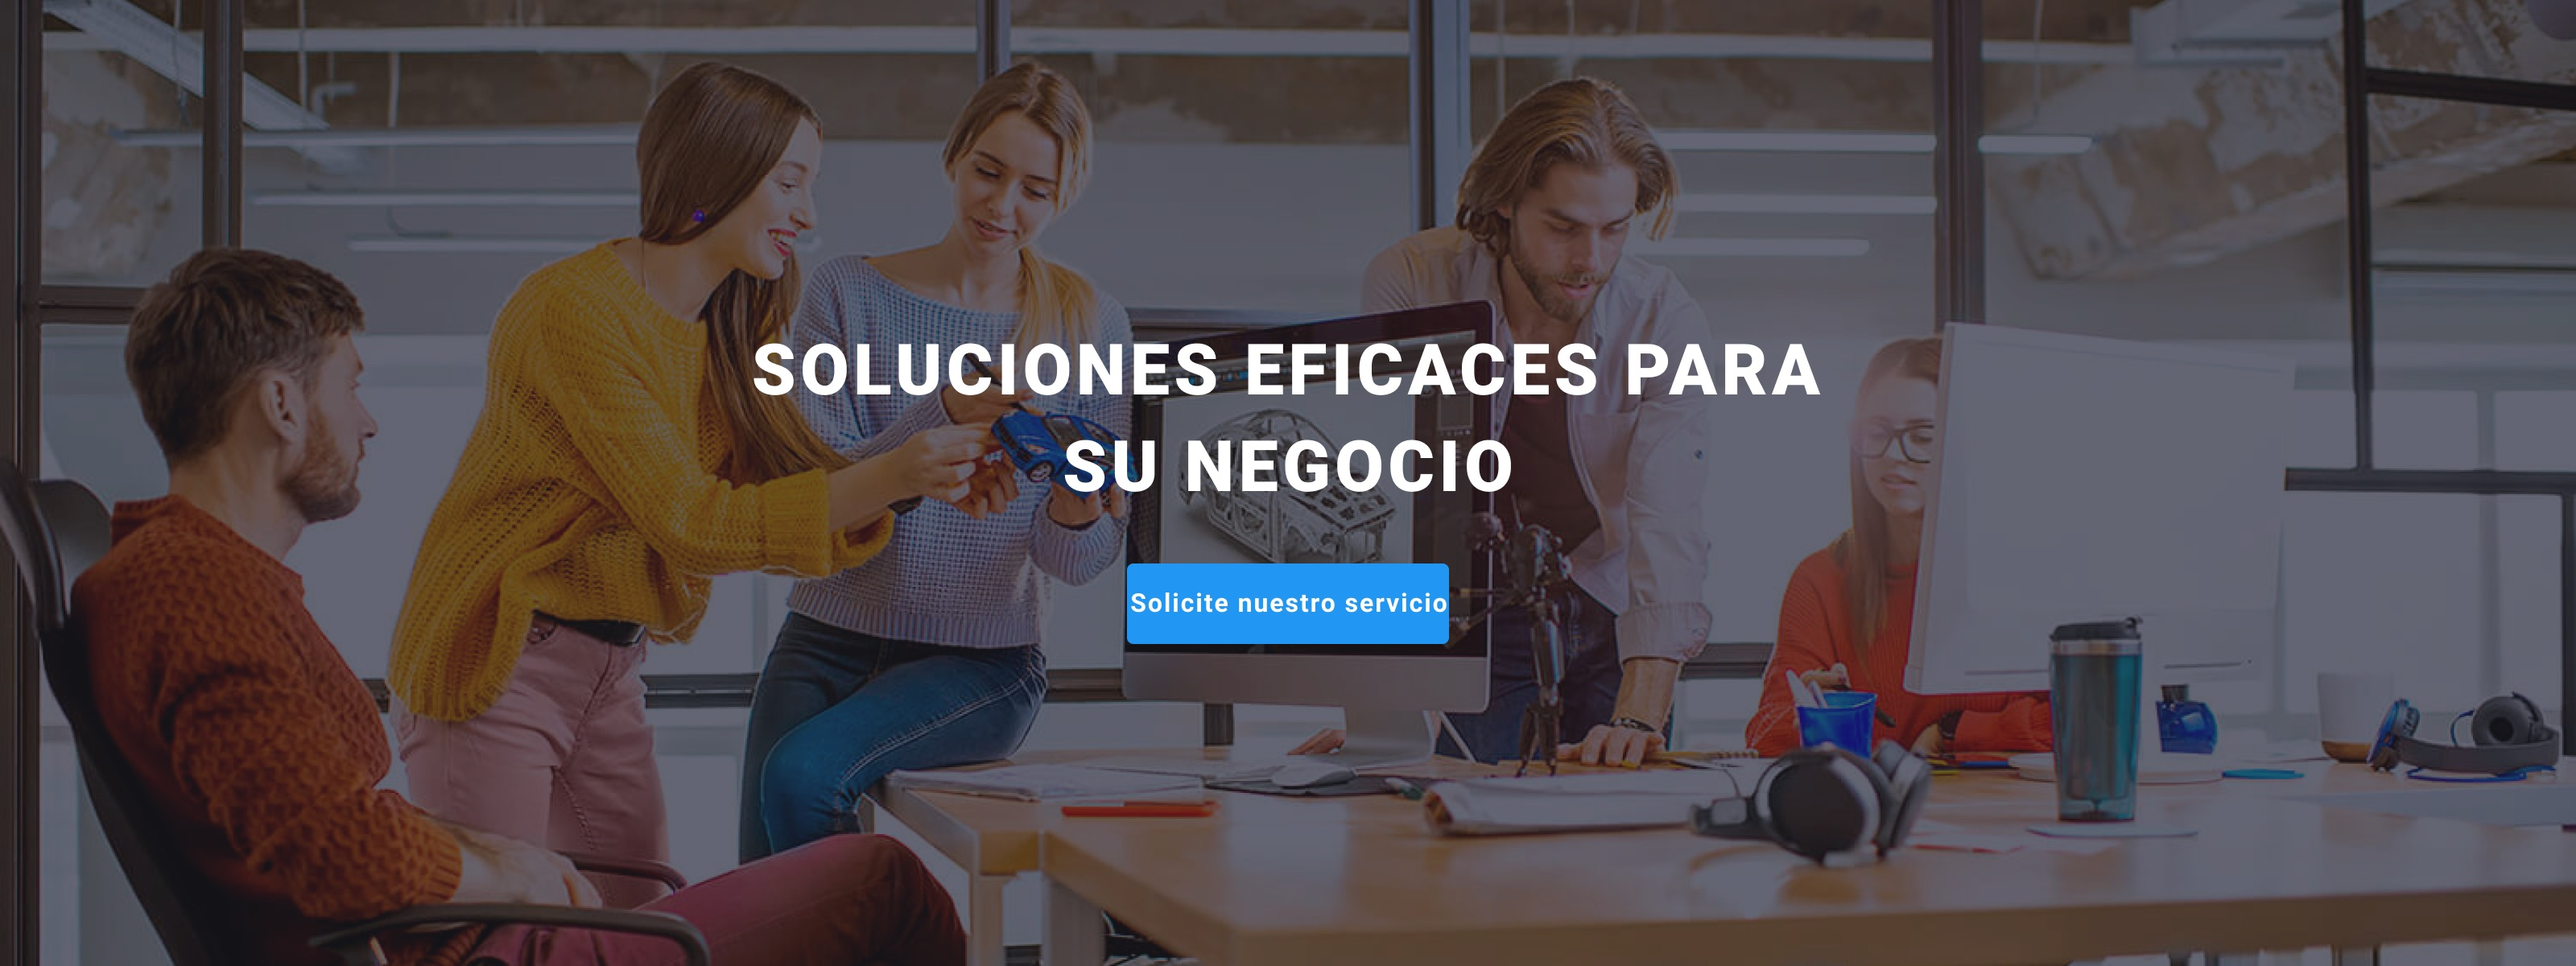
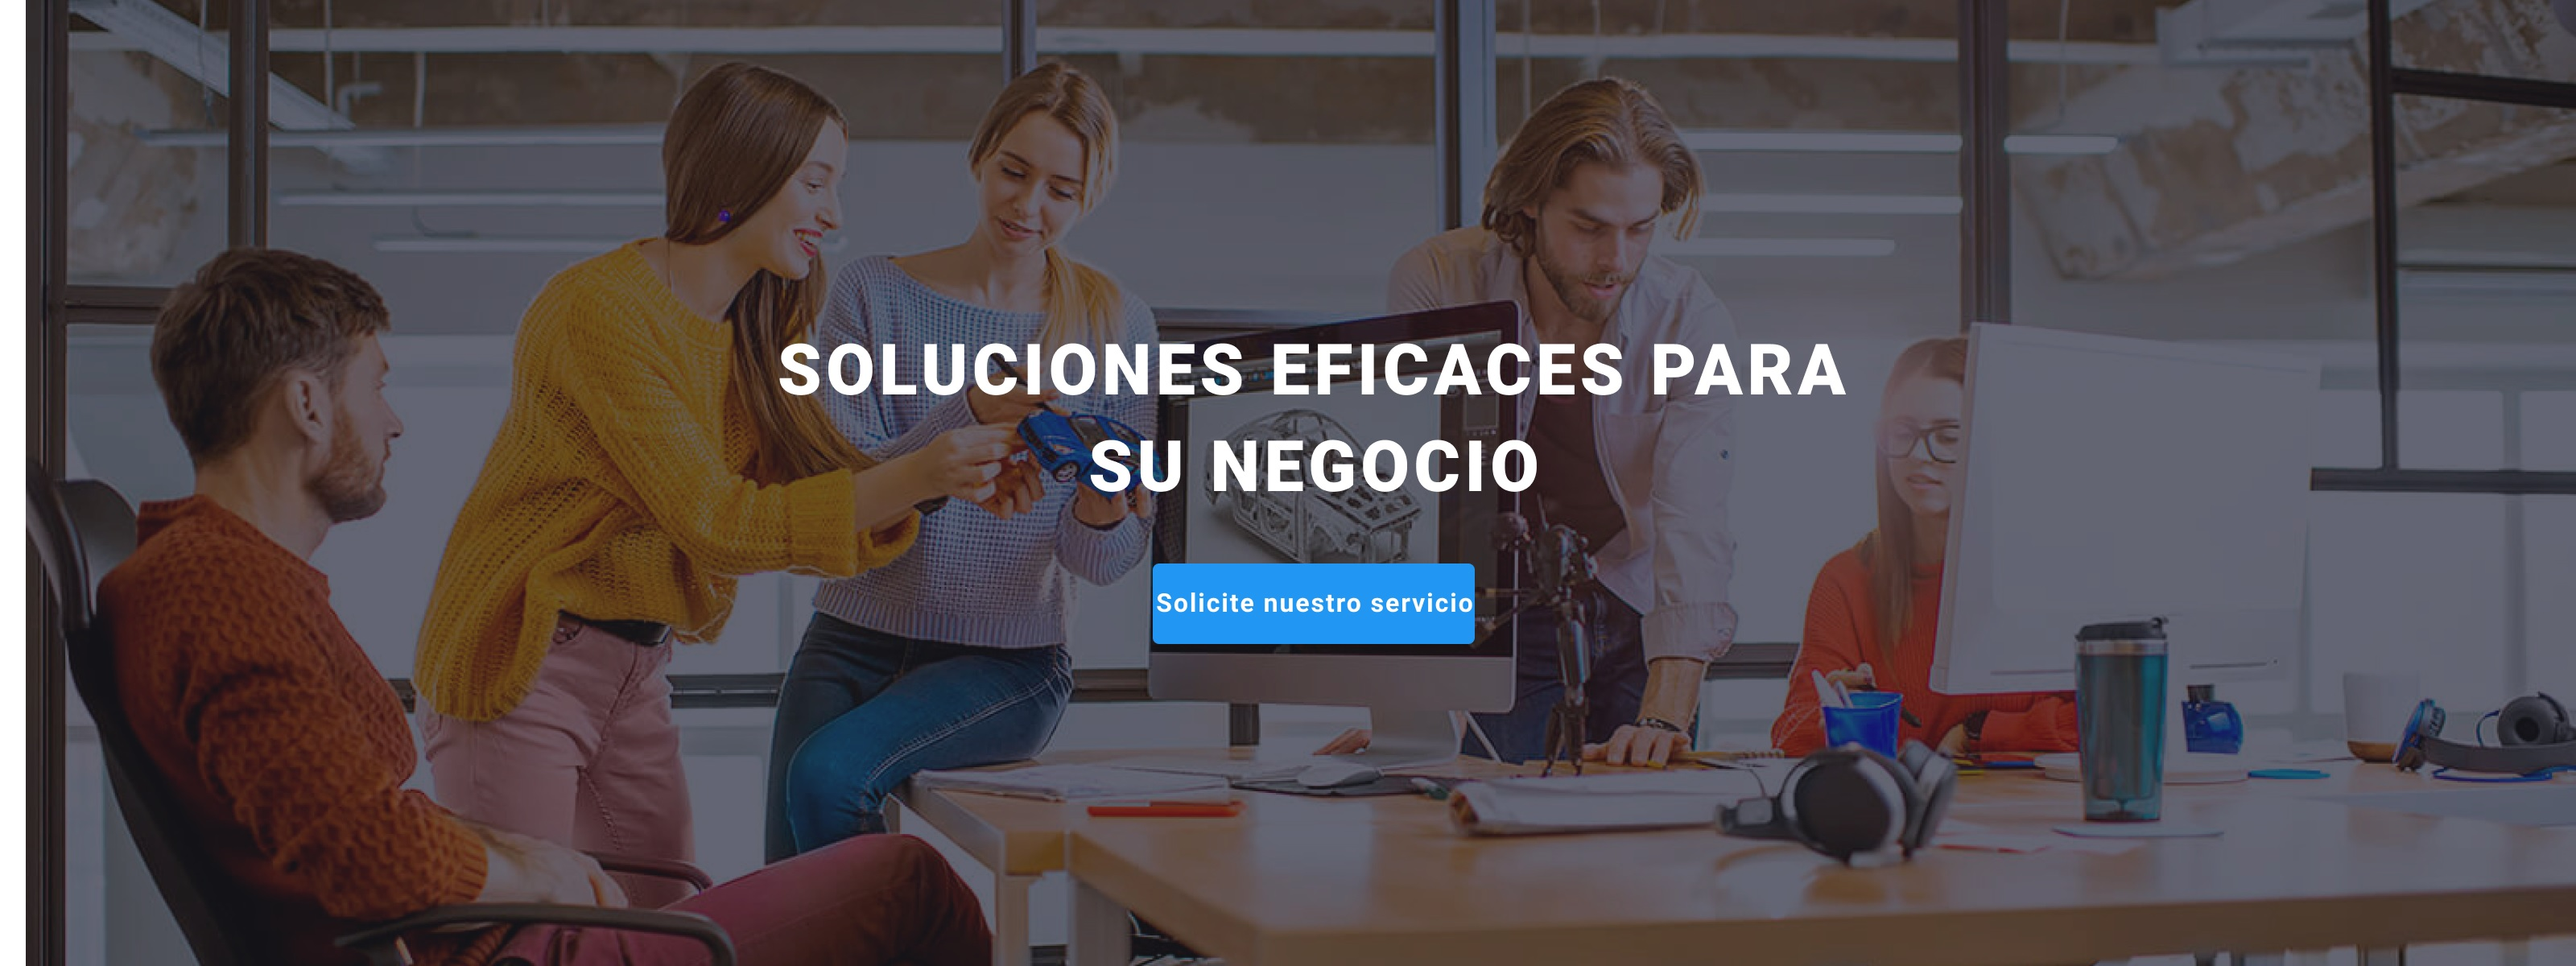
2

diff --git a/index.html b/index.html
@@ -12,7 +12,7 @@
     <link rel="stylesheet" href="/css/Styles.css" />
    </head>
     <header class="header">
-      <h3><a id="webstudio1" href="/index.html">WebStudio</a></h3>
+      <h3><a id="webstudio1" href="index.html">WebStudio</a></h3>
            <p><a href="estudio.html">Estudio</a></p>
            <p><a href="portafolio.html">Portafolio</a></p>
            <p><a href="contactos">Contactos</a></p>
@@ -27,25 +27,35 @@
        <main>
          <nav>
           <section>
-            <article>
-              <h3> ATENCION A LOS DETALLES</h3> 
+            <article class="container">
+              <ul class="card set">
+                <li class="item">
+                  <h3> ATENCION A LOS DETALLES</h3> 
                   <p>Nos adentramos en todos los detalles y procesos de su negocio, para así desarrollar una solución a su medida.
-                  </p>
-            </article>     
-                    <h3> PUNTUALIDAD</h3>
-                  <p>Con nosotros, usted puede sentirse seguro y protegido. Un principio importante de la empresa: respetar su tiempo y
-                     respetar los plazos acordados.
-                  </p>
-                   <h3> PLANIFICACION </h3>
-                  <p> Usted podrá observar y participar en cada fase del desarrollo y aplicación de soluciones.
-                  </p>
-                   <h3> TECNOLOGIA MODERNA </h3>
-                  <p>Usamos herramientas innovadoras para resolver las tareas asignadas. Es hora de simplificar los procesos laborales.
-                  </p>
+                    </p>
+                </li>
+                <li class="item">
+                   <h3> PUNTUALIDAD</h3>
+                    <p>Con nosotros, usted puede sentirse seguro y protegido. Un principio importante de la empresa: respetar su tiempo y
+                      respetar los plazos acordados.
+                   </p>
+                </li>
+                <li class="item">
+                     <h3> PLANIFICACION </h3>
+                     <p> Usted podrá observar y participar en cada fase del desarrollo y aplicación de soluciones.
+                     </p>
+               </li>
+                 <li class="item"> 
+                    <h3> TECNOLOGIA MODERNA </h3>
+                    <p>Usamos herramientas innovadoras para resolver las tareas asignadas. Es hora de simplificar los procesos laborales.
+                    </p>
+                </li>
+              </ul>
+             </article>
           </section>
         </nav>
       <section>
-        <div id="h2">
+        <div class="aqnd">
           <h2>A que nos dedicamos</h2>
           <img src="images/1.jpg"
           alt="1"
@@ -93,14 +103,13 @@
     </body>
 
      <footer class="foot1">
-      <h3>
-        <stong><a id="webstudio2" href="/index.html">WebStudio</a>
-      </h3></strong>
+      <h3><a id="webstudio2" href="/index.html">WebStudio</a>
+       </h3></strong>
         <address>
-         Calz. Ticomán 500, <br />
-         Ciudad de México, CDMX, México <br />
-         <a id="linkcorreo" href="mailto:info@devstudio.com">info@example.com</a><br />
-         <a id="linknumero" href="tel:(+52) 55 5529 6000">(+52) 55 5529 6000</a>
+          Calz. Ticomán 500, <br />
+          Ciudad de México, CDMX, México <br />
+          <a id="linkcorreo" href="mailto:info@devstudio.com">info@example.com</a><br />
+          <a id="linknumero" href="tel:(+52) 55 5529 6000">(+52) 55 5529 6000</a>
        </address>
      </footer>
   </html>

diff --git a/css/Styles.css b/css/Styles.css
@@ -1,45 +1,40 @@
-body{
+html{
 font-family: 'Raleway',
 sans-serif;
 font-family: 'Roboto',
 sans-serif;
 color: rgb(0, 0, 0);
 font-size: auto;
+margin: auto;
 }
 .head1 {   
 color: white;
 line-height: normal;
-background-color: black;
+background-color: black; 
 cursor: pontier;
-width: 300px;
-background-image: url(/);
+width: 600px;
+background-image: url(/images/bh.jpg);
+background-size: cover;
 padding-left: 500px;
 padding-top: 200px;
-padding-right: 500px;
+padding-right: 700px;
 padding-bottom: 200px;
 }
 .header{
+   font-size: 14px;
    margin-left: 70px;
-   margin-right:70px;
+   margin-right:auto;
    display: flex;
    flex-direction: row;
-   justify-content:space-between;
+   justify-content:space-evenly;
+padding-bottom: 200px;
+padding-top: 0;  
+  
+   padding-right: 500px;
 }
-.menu {
-   display: flex;
-   flex-direction: row;
-   align-items: flex-end;
-}
-.integrants{
-   display: flex;
-   flex-direction: row;
-   align-items: center;
-   margin-left: 70px;
-   margin-right:70px ;
-}
-#botonservi{
+#botonservi {
    cursor: pointer;
-   background-color:cornflowerblue;
+   background-color: cornflowerblue;
    color: white;
    justify-content: center;
    padding-left: 20px;
@@ -47,64 +42,83 @@ padding-bottom: 200px;
    margin-right: 50px;
    margin-left: 50px;
 }
-#botonesportafolio{
-   cursor: pointer; 
+
+.card-set {
+   display: flex;
+   flex-wrap: wrap;
 }
-#todo {
-   cursor: pointer;
+.item{
+   display: flex;
+   flex-direction: column;
+         margin-top: 0;
+         font-size: 20px;
 }
-#sitios {
-   cursor: pointer;
+      
+.item p {
+display: flex;
+flex-direction: column;
+justify-content: baseline;
+margin: 0;
 }
-#aplicaciones {
-   cursor: pointer;
-}
-#diseño{
-   cursor: pointer;
-}
-#marketing{
-   cursor: pointer;
+.integrants{
+   display: flex;
+   flex-basis: content;
+   flex-wrap: wrap;
+   justify-content: flex-start;
+   align-items: stretch;
+   margin-left: 70px;
+   margin-right:70px ;
 }
 .foot1{
-background-color: black;
-color: white;
+   color: white;
+   background-color: black;
+   font-size: 14px;
 }
-#webstudio{
+.webstudio1 {
    color: blue;
+   font-size: 26px;
 }
-#h2{
-   font-weight: 36;
-   font-size: bold;
+.webstudio2{
+   color: blue;
+font-size: 26px;
 }
-h3{
-   font-weight: 36;
-   font-weight: bold;
-   display: flex;
-   flex-direction: row;
-   justify-content:space-between;
-   margin-left: 70px;
-   margin-right: 70px;
-
-}
-p {
-   font-weight: 36;
-   font-weight: none;
-   display: flex;
-   flex-direction: row;
-   justify-content: space-between;
-   border
+#botonesportafolio{
+   cursor: pointer; 
 }
 #linkcorreo{
       color: white;
       text-decoration:none;
    }
-   #linknumero {
+#linknumero {
       color: white;
       text-decoration:none;
    }
-  
-   .container {
+.aqnd{
+   size: 80px;
+}
+.container {
       width: 1200px;
       margin: 0 auto;
       padding: 0 15px;
-   }
+}
+.webstudio11{
+   display: flex;
+   flex-direction: row;
+   justify-content:space-evenly;
+   align-items: flex-start;
+}
+.types{
+cursor: pointer;
+font-size: 14px;
+display: flex;
+flex-direction: row;
+justify-content: space-around;
+padding-right: 500px;
+padding-bottom: 50px;
+
+}
+.srv{
+   display: flex;
+   flex-wrap: wrap;
+   justify-content: first baseline;
+}

diff --git a/portafolio.html b/portafolio.html
@@ -12,31 +12,27 @@
     <link rel="stylesheet" href="/css/styles.css" />
 </head>
 
-<header>
-    <h3><a id="webstudio11" href="/index.html">WebStudio</a></h3>
-        <ul>
-            <li><a href="/estudio.html">estudio</a></li>
-            <li><a href="/portafolio.html">portafolio</a></li>
-            <li><a href="Contactos">contactos</a></li>
-        </ul>
-    </nav>
-    <a href="mailto:info@example.com">info@example.com</a><br />
-    <a href="tel:(+52) 55 5529 6000">(+52) 55 5529 6000</a>
+<header class="header">
+    <h3><a id="webstudio1" href="index.html">WebStudio</a></h3>
+    <p><a href="estudio.html">Estudio</a></p>
+    <p><a href="portafolio.html">Portafolio</a></p>
+    <p><a href="contactos">Contactos</a></p>
+    <p><a href="mailto:info@devstudio.com">info@devstudio.com</a><br />
+    <p><a href="tel:(+52) 55 5529 6000">(+52) 55 5529 6000</a>
 </header>
-<section>
-    <body>
+<section class="types">
         <button id="todo" type="button">todo
         </button>
-        <button id="sitios" type="button">Sitios-Web
+        <button id="sw" type="button">Sitios-Web
         </button>
-        <button id="aplicaciones" type="button">Aplicaciones
+        <button id="apps" type="button">Aplicaciones
         </button>
         <button id="diseño" type="button">Diseño
         </button>
         <button id="marketing" type="button">Marketing
         </button>
     </section>
-<Section>
+<Section class="srv">
     <td>
     <tr><img src="/images/1.1.jpg" alt="1.1" width="370" height="404" /></tr>
     <tr><img src="/images/1.2.jpg" alt="1.2" width="370" height="404" /></tr>
@@ -47,8 +43,8 @@
     <tr><img src="/images/1.7.jpg" alt="1.7" width="370" height="404" /></tr>
     <tr><img src="/images/1.8.jpg" alt="1.8" width="370" height="404" /></tr>
     <tr><img src="/images/1.9.jpg" alt="1.9" width="370" height="404" /></tr>
-</tr>
-    </Section>
+    </tr>
+ </Section>
 
 </body>
 <footer class="foot1">
